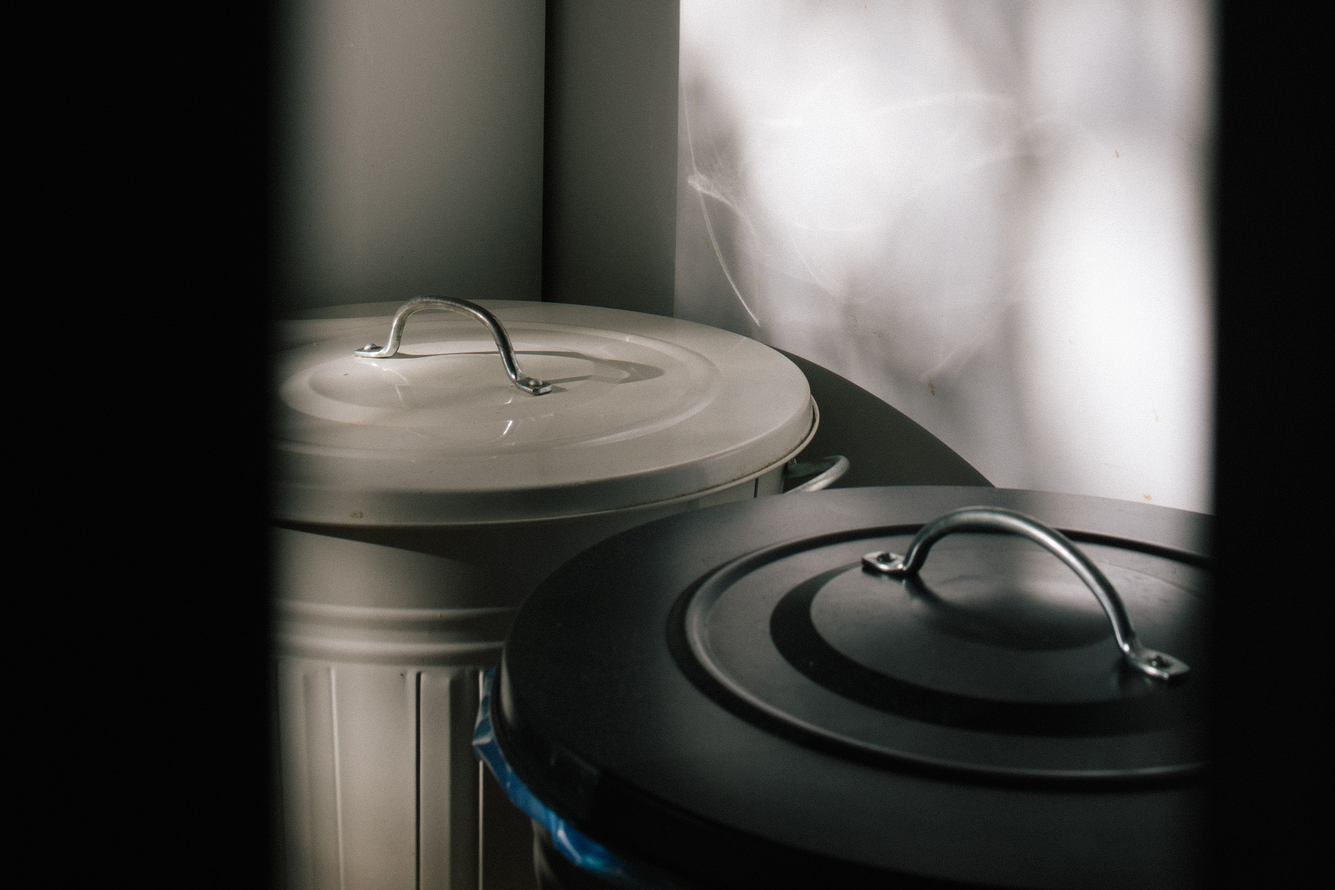
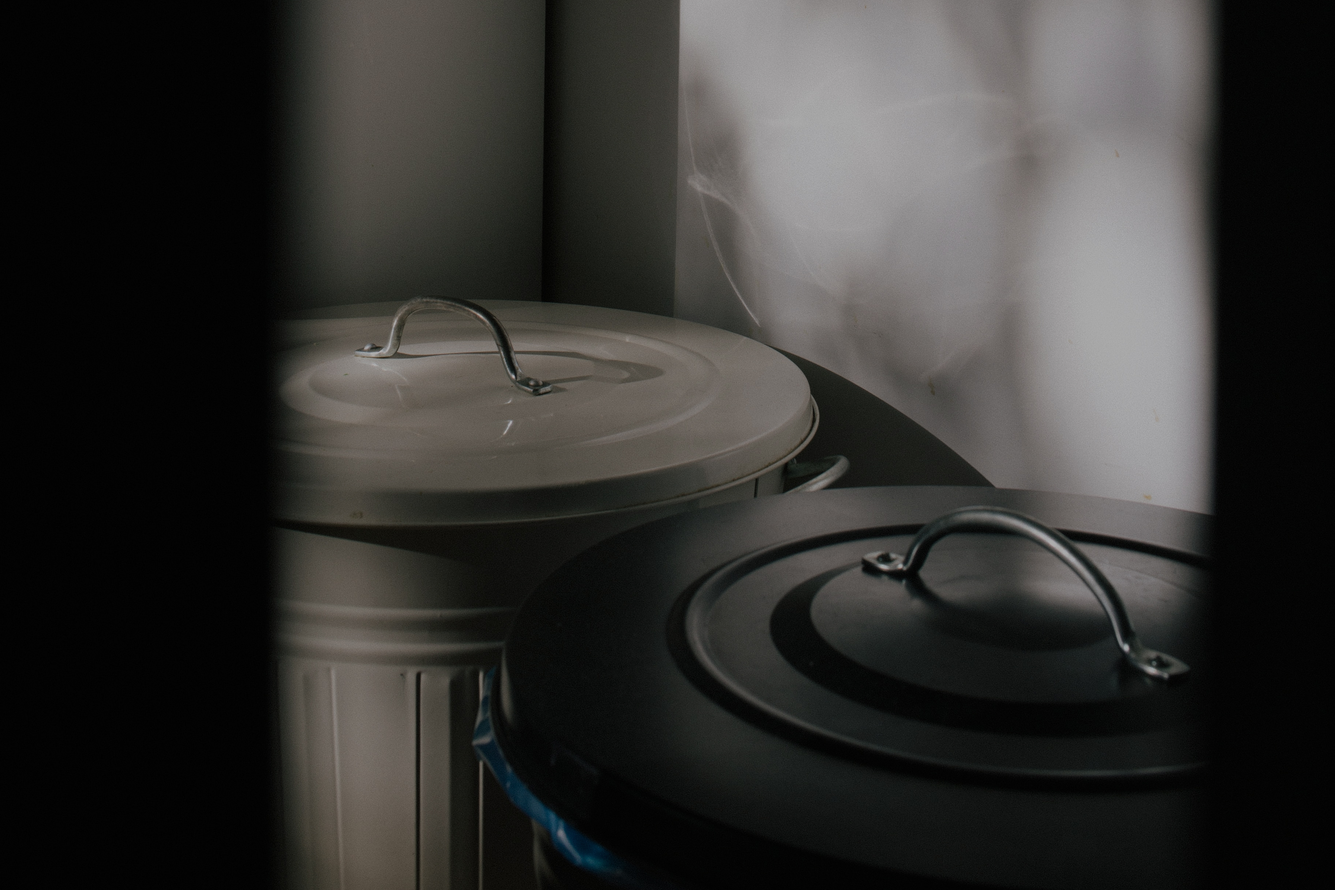
last edit for today. Darkened the hero image so the white text can show

diff --git a/app/assets/stylesheets/style.scss b/app/assets/stylesheets/style.scss
@@ -730,7 +730,7 @@ input::-webkit-input-placeholder {
 }
 
 .main-bg-back-6{
-    background-image: image-url("seo/furniture.jpg");
+    background: image-url("seo/furniture.jpg");
     background-size:cover;
     background-position:top center
 
